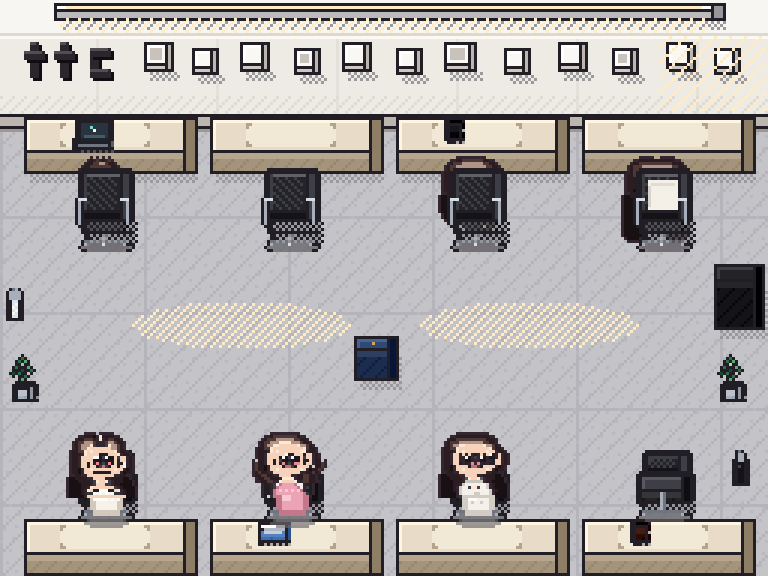
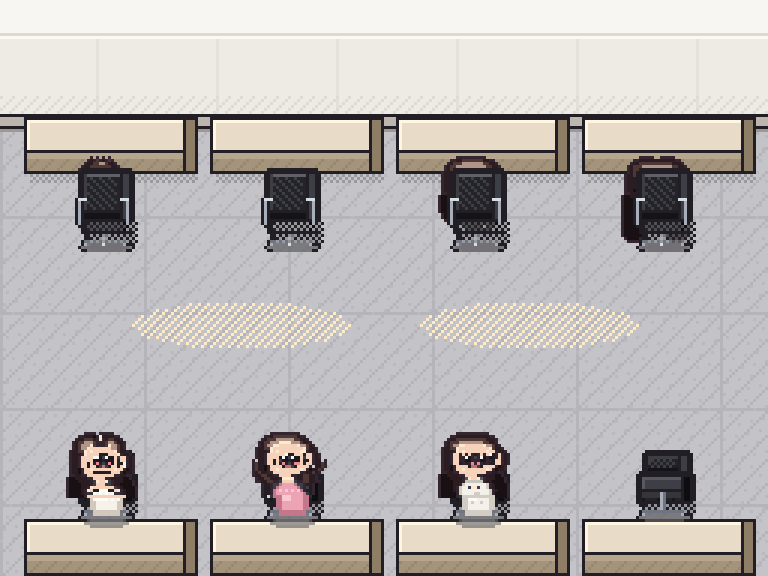
Add a 180-degree hutong camera with swapped faces and backs.
View 1 keeps a plain wall; view 2 has no wall. Both show only floor,
eight empty desks, eight chairs, and the same seated cast. Gallery and
walk expose hutong plus hutong_reverse with matching seat anchors.

diff --git a/public/index.html b/public/index.html
@@ -157,8 +157,8 @@
         <div class="grid" id="cast"></div>
       </section>
       <section>
-        <h2>保留场景 · 11</h2>
-        <p class="note">胡同（上墙 4 桌 · 下墙 4 桌 · 中间 8 椅背靠背）/ 电梯间 / 夏威夷（开窗见蓝天高楼 · 左3椅 · 右3椅 · 约六座）/ 泡泡玛特 / 厕所 / 普通工位 / 会议室 / 演唱会 / 咖啡店 / 健身房 / 米线店。</p>
+        <h2>保留场景 · 11 + 胡同反打</h2>
+        <p class="note">胡同正打 / 胡同反打（同一房间 180°）/ 电梯间 / 夏威夷（开窗见蓝天高楼 · 左3椅 · 右3椅 · 约六座）/ 泡泡玛特 / 厕所 / 普通工位 / 会议室 / 演唱会 / 咖啡店 / 健身房 / 米线店。</p>
         <div class="grid" id="rooms"></div>
       </section>
       <section>
@@ -205,7 +205,10 @@
     const ROOMS = [
       { id:"hutong", title:"胡同工位区", src:"assets/scenes/hutong/scene_hutong.png",
         line:"这边还能放杯子。", y:108, t:"09:20", action:"sit_aisle",
-        why:"上墙 4 桌、下墙 4 桌；8 椅在中间背靠背（上排后脑勺、下排正脸），中间走道。每桌空 pad。" },
+        why:"正打：素墙。上排后脑勺，下排正脸。只要地板、8 桌、8 椅、人。" },
+      { id:"hutong_reverse", title:"胡同 · 反打", src:"assets/scenes/hutong_reverse/scene_hutong_reverse.png",
+        line:"从这边看是正脸。", y:96, t:"09:21", action:"look_back", cameraOnly:true,
+        why:"同一房间转 180°。无墙。原先后脑勺变正脸，正脸变后脑勺，左右对调。" },
       { id:"elevator", title:"电梯间", src:"assets/scenes/elevator/scene_elevator.png",
         line:"先等这梯。", y:140, t:"09:12", action:"wait_lift",
         why:"米黄石材、开门、雕塑台座、屏与按钮。" },
@@ -258,13 +261,14 @@
     });
 
     const beatsEl = document.getElementById("beats");
-    [...ROOMS].sort((a, b) => a.t.localeCompare(b.t)).forEach((b, i) => {
+    const DAY = ROOMS.filter(r => !r.cameraOnly);
+    [...DAY].sort((a, b) => a.t.localeCompare(b.t)).forEach((b, i) => {
       const d = document.createElement("article");
       d.className = "beat";
       d.innerHTML = `
         <img class="pixel" src="${b.src}" alt="${b.title}" />
         <div>
-          <div class="t">${b.t} · ${String(i + 1).padStart(2, "0")} / ${String(ROOMS.length).padStart(2, "0")} · ${b.action}</div>
+          <div class="t">${b.t} · ${String(i + 1).padStart(2, "0")} / ${String(DAY.length).padStart(2, "0")} · ${b.action}</div>
           <h3>${b.title}</h3>
           <p class="note">${b.why}</p>
           <div class="bubble">${b.line}</div>

diff --git a/scripts/generate_rooms.py b/scripts/generate_rooms.py
@@ -1,7 +1,7 @@
 #!/usr/bin/env python3
 """11 Laura-named scenes — 2.5D refined pixel, 256×192, empty desk pads.
 
-v4: hawaii open window + 6 seats; hutong 4 top-wall desks + 4 bottom-wall desks, 8 mid chairs;
+v5: hutong two cameras (front + 180 reverse); desks/chairs/people only;
 concert / cafe / gym / mixian added. Same 1px ink + wall-FACE language.
 """
 from __future__ import annotations
@@ -469,73 +469,101 @@ def office_floor(d, y0, c1, c2, seam):
 
 
 # ===========================================================================
-# 1. 胡同 — 上墙 4 桌 + 下墙 4 桌，8 椅在中间背靠背
+# 1. 胡同 — 两台摄像机：正打（有素墙）/ 反打 180°（无墙）
+#    只要地板 + 8 桌 + 8 椅 + 坐着的人。桌面空着。
 # ===========================================================================
-def scene_hutong() -> Image.Image:
-    room = new(W, H, HT["floor"])
-    d = ImageDraw.Draw(room)
-    office_floor(d, 40, HT["floor"], HT["floor2"], HT["gap"])
+# Physical seats, left→right as seen in view 1.
+# n* face the north (top) wall; s* face the south (bottom) edge.
+HUTONG_NORTH = ("cast_02", None, "cast_05", "cast_08")  # face north
+HUTONG_SOUTH = ("cast_01", "cast_03", "cast_04", None)  # face south
+HUTONG_DESK_XS = (8, 70, 132, 194)
+HUTONG_DESK_W, HUTONG_DESK_H, HUTONG_DESK_Z = 54, 12, 7
+
+
+def _hutong_desk(d, x, y):
+    prism(d, x, y, HUTONG_DESK_W, HUTONG_DESK_H, HUTONG_DESK_Z, HT["desk"], HT["desk_e"])
+
+
+def _hutong_floor(d, y0):
+    office_floor(d, y0, HT["floor"], HT["floor2"], HT["gap"])
     light_pool(d, 80, 108, 36, 8, HT["sun"], 3)
     light_pool(d, 176, 108, 36, 8, HT["sun"], 3)
 
+
+def scene_hutong() -> Image.Image:
+    """View 1 — camera looks north: plain wall, n* show backs, s* show faces."""
+    room = new(W, H, HT["floor"])
+    d = ImageDraw.Draw(room)
+    _hutong_floor(d, 40)
     rect(d, [0, 0, W - 1, 10], HT["ceil"])
-    fluorescent(d, 18, 1, 220, HT["sun"])
     wall_face(d, 0, 11, W - 1, 38, HT["wall"], lip=4, lip_c=HT["lip"])
-    draw_ttc(d, 8, 14)
-    frames = (
-        (48, 14, 8, 8), (64, 16, 7, 7), (80, 14, 8, 8),
-        (98, 16, 7, 7), (114, 14, 8, 8), (132, 16, 7, 7),
-        (148, 14, 9, 8), (168, 16, 7, 7), (186, 14, 8, 8),
-        (204, 16, 7, 7), (222, 14, 8, 8), (238, 16, 7, 7),
-    )
-    for i, (fx, fy, fw, fh) in enumerate(frames):
-        prism(d, fx, fy, fw, fh, 2, HT["frame"], HT["wall_d"], HT["lip"])
-        if i % 3 == 0:
-            rect(d, [fx + 2, fy + 2, fx + fw - 3, fy + fh - 3], shade(HT["wall_d"], -6))
-    dither(d, 220, 12, 254, 36, HT["sun"], 5)
 
-    # four desks flush to the TOP wall, four flush to the BOTTOM edge
-    desk_xs = (8, 70, 132, 194)
-    desk_w, desk_h, desk_z = 54, 12, 7
-    top_items = (prop_laptop(), None, prop_cup((40, 40, 46, 255)), None)
-    bot_items = (None, prop_notebook(), None, prop_cup((80, 48, 40, 255)))
-    # top-row sit_back (face the wall); bottom-row sit_front (face us)
-    top_sit = ("cast_02", None, "cast_05", "cast_08")
-    bot_sit = ("cast_01", "cast_03", "cast_04", None)
-
-    top_desk_y = 39
-    bot_desk_y = 173
-    top_chair_y = 56
-    bot_chair_y = 150
-
-    for i, x in enumerate(desk_xs):
-        prism(d, x, top_desk_y, desk_w, desk_h, desk_z, HT["desk"], HT["desk_e"])
-        empty_pad(d, x + 12, top_desk_y + 2, 30, 8, HT["pad"], shade(HT["desk_e"], 16))
-        if top_items[i]:
-            blit(room, top_items[i], x + 16, top_desk_y)
-        prism(d, x, bot_desk_y, desk_w, desk_h, desk_z, HT["desk"], HT["desk_e"])
-        empty_pad(d, x + 12, bot_desk_y + 2, 30, 8, HT["pad"], shade(HT["desk_e"], 16))
-        if bot_items[i]:
-            blit(room, bot_items[i], x + 16, bot_desk_y)
-
-        # top: person faces the wall (back of head), then chair back toward the aisle
-        if top_sit[i]:
-            blit(room, cast_sprite(top_sit[i], "sit_back"), x + 11, top_chair_y - 12)
-        blit(room, chair_north(jacket=(i == 3)), x + 16, top_chair_y)
-        # bottom: chair behind (toward aisle), person faces the bottom wall
-        blit(room, chair_south(jacket=(i == 1)), x + 16, bot_chair_y)
-        if bot_sit[i]:
-            blit(room, cast_sprite(bot_sit[i], "sit_front"), x + 11, bot_chair_y - 14)
-
-    # leftover floor = small props only, no extra seats
-    blit(room, prop_plant(), 2, 118)
-    blit(room, prop_plant(), 238, 118)
-    blit(room, prop_spray(), 2, 96)
-    blit(room, prop_bottle(), 244, 150)
-    prism(d, 238, 88, 14, 6, 16, HT["chair"], shade(HT["chair"], -16))
-    prism(d, 118, 112, 12, 5, 10, (46, 72, 120, 255), (28, 44, 78, 255))
-    d.point((124, 114), fill=(210, 168, 80, 255))
+    top_desk_y, bot_desk_y = 39, 173
+    top_chair_y, bot_chair_y = 56, 150
+    for i, x in enumerate(HUTONG_DESK_XS):
+        _hutong_desk(d, x, top_desk_y)
+        _hutong_desk(d, x, bot_desk_y)
+        if HUTONG_NORTH[i]:
+            blit(room, cast_sprite(HUTONG_NORTH[i], "sit_back"), x + 11, top_chair_y - 12)
+        blit(room, chair_north(), x + 16, top_chair_y)
+        blit(room, chair_south(), x + 16, bot_chair_y)
+        if HUTONG_SOUTH[i]:
+            blit(room, cast_sprite(HUTONG_SOUTH[i], "sit_front"), x + 11, bot_chair_y - 14)
     return room
+
+
+def scene_hutong_reverse() -> Image.Image:
+    """View 2 — camera rotated 180°: no wall. Rows and X flip; faces/backs swap."""
+    room = new(W, H, HT["floor"])
+    d = ImageDraw.Draw(room)
+    _hutong_floor(d, 0)
+
+    # Physical south row is now at the TOP of the screen (X flipped).
+    # Physical north row is now at the BOTTOM (X flipped).
+    top_desk_y, bot_desk_y = 4, 173
+    top_chair_y, bot_chair_y = 22, 150
+    xs = HUTONG_DESK_XS  # screen left → right
+    south_ltr = tuple(reversed(HUTONG_SOUTH))  # screen-left = physical s3
+    north_ltr = tuple(reversed(HUTONG_NORTH))  # screen-left = physical n3
+    for i, x in enumerate(xs):
+        _hutong_desk(d, x, top_desk_y)
+        _hutong_desk(d, x, bot_desk_y)
+        # top of screen: physical south people, now we see their BACKS
+        if south_ltr[i]:
+            blit(room, cast_sprite(south_ltr[i], "sit_back"), x + 11, top_chair_y - 12)
+        blit(room, chair_north(), x + 16, top_chair_y)
+        # bottom of screen: physical north people, now we see their FACES
+        blit(room, chair_south(), x + 16, bot_chair_y)
+        if north_ltr[i]:
+            blit(room, cast_sprite(north_ltr[i], "sit_front"), x + 11, bot_chair_y - 14)
+    return room
+
+
+def hutong_seats_view1():
+    return [
+        {"id": "n0", "x": 27, "y": 56, "face": "up", "view": "sit_back", "who": "cast_02"},
+        {"id": "n1", "x": 89, "y": 56, "face": "up", "view": "sit_back", "who": None},
+        {"id": "n2", "x": 151, "y": 56, "face": "up", "view": "sit_back", "who": "cast_05"},
+        {"id": "n3", "x": 213, "y": 56, "face": "up", "view": "sit_back", "who": "cast_08"},
+        {"id": "s0", "x": 27, "y": 150, "face": "down", "view": "sit_front", "who": "cast_01"},
+        {"id": "s1", "x": 89, "y": 150, "face": "down", "view": "sit_front", "who": "cast_03"},
+        {"id": "s2", "x": 151, "y": 150, "face": "down", "view": "sit_front", "who": "cast_04"},
+        {"id": "s3", "x": 213, "y": 150, "face": "down", "view": "sit_front", "who": None},
+    ]
+
+
+def hutong_seats_view2():
+    """Same physical seats after a 180° camera rotate (X flip + row swap)."""
+    return [
+        {"id": "s3", "x": 27, "y": 22, "face": "up", "view": "sit_back", "who": None},
+        {"id": "s2", "x": 89, "y": 22, "face": "up", "view": "sit_back", "who": "cast_04"},
+        {"id": "s1", "x": 151, "y": 22, "face": "up", "view": "sit_back", "who": "cast_03"},
+        {"id": "s0", "x": 213, "y": 22, "face": "up", "view": "sit_back", "who": "cast_01"},
+        {"id": "n3", "x": 27, "y": 150, "face": "down", "view": "sit_front", "who": "cast_08"},
+        {"id": "n2", "x": 89, "y": 150, "face": "down", "view": "sit_front", "who": "cast_05"},
+        {"id": "n1", "x": 151, "y": 150, "face": "down", "view": "sit_front", "who": None},
+        {"id": "n0", "x": 213, "y": 150, "face": "down", "view": "sit_front", "who": "cast_02"},
+    ]
 
 
 # ===========================================================================
@@ -1157,20 +1185,18 @@ def scene_mixian() -> Image.Image:
 
 SCENES = [
     dict(id="hutong", title="胡同工位区",
-         blurb="上墙 4 桌 · 下墙 4 桌 · 中间 8 椅背靠背",
+         blurb="正打：素墙 + 上 4 桌下 4 桌 · 中间 8 椅",
          fn=scene_hutong, walk_y=108, line="这边还能放杯子。",
          beat_t="09:20", action="sit_aisle",
-         seats=[
-             {"id": "n0", "x": 27, "y": 56, "face": "up", "view": "sit_back"},
-             {"id": "n1", "x": 89, "y": 56, "face": "up", "view": "sit_back"},
-             {"id": "n2", "x": 151, "y": 56, "face": "up", "view": "sit_back"},
-             {"id": "n3", "x": 213, "y": 56, "face": "up", "view": "sit_back"},
-             {"id": "s0", "x": 27, "y": 150, "face": "down", "view": "sit_front"},
-             {"id": "s1", "x": 89, "y": 150, "face": "down", "view": "sit_front"},
-             {"id": "s2", "x": 151, "y": 150, "face": "down", "view": "sit_front"},
-             {"id": "s3", "x": 213, "y": 150, "face": "down", "view": "sit_front"},
-         ],
-         why="上墙齐排 4 张工位桌，下墙齐排 4 张；8 把椅子全在房间中间：上排椅朝上墙（看见后脑勺），下排椅朝下墙（看见正脸），两排椅背对背，中间留走道。每桌一块空 pad。墙上只留 ttc 和镜框。空地用植物/喷壶/包补密度，不加座位。"),
+         seats=hutong_seats_view1(),
+         why="摄像机朝北墙。素墙一条（无 ttc / 镜框）。上排椅朝北墙看后脑勺，下排椅朝下看正脸。只要地板、8 桌、8 椅、坐着的人；桌面空着。"),
+    dict(id="hutong_reverse", title="胡同 · 反打",
+         blurb="反打 180°：无墙 · 同一 8 座换朝向",
+         fn=scene_hutong_reverse, walk_y=96, line="从这边看是正脸。",
+         beat_t="09:21", action="look_back",
+         camera_only=True,
+         seats=hutong_seats_view2(),
+         why="同一房间摄像机转 180°。无墙、无装饰。原先看后脑勺的一排现在看正脸，原先看正脸的一排现在看后脑勺。左右对调。还是那 8 桌 8 椅同一些人。"),
     dict(id="elevator", title="电梯间",
          blurb="米黄石材 · 开门体积 · 雕塑台座 · 屏与按钮",
          fn=scene_elevator, walk_y=140, line="先等这梯。",
@@ -1238,7 +1264,7 @@ def write_scene_md(spec):
 
 - `public/assets/scenes/{spec['id']}/scene_{spec['id']}.png`
 - `public/preview/zoomed/{spec['id']}.png`
-{("- 8 seat anchors: top n0–n3 face up (`sit_back`); bottom s0–s3 face down (`sit_front`). Walk aisle `walk_y=108`." if spec["id"] == "hutong" else "")}
+{("- View 1 `hutong`：素墙，n* `sit_back`，s* `sit_front`，`walk_y=108`。\n- View 2 `hutong_reverse`：无墙，座位 180° 对调，n* 改 `sit_front`，s* 改 `sit_back`，`walk_y=96`。" if spec["id"] in ("hutong", "hutong_reverse") else "")}
 
 不描摹真人，不提交 refs。
 """,
@@ -1258,10 +1284,11 @@ def write_day_md():
         "",
         "```",
     ]
-    for s in sorted(SCENES, key=lambda x: x["beat_t"]):
+    day_scenes = [s for s in SCENES if not s.get("camera_only")]
+    for s in sorted(day_scenes, key=lambda x: x["beat_t"]):
         lines.append(f"{s['beat_t']}  {s['title']:8}  {s['action']}")
     lines += ["```", "", "## 分镜", ""]
-    for i, s in enumerate(sorted(SCENES, key=lambda x: x["beat_t"]), 1):
+    for i, s in enumerate(sorted(day_scenes, key=lambda x: x["beat_t"]), 1):
         lines += [
             f"### {i} · {s['beat_t']} · {s['title']}",
             f"- `{s['action']}` 「{s['line']}」",
@@ -1287,7 +1314,7 @@ def make_room_sheet(images):
 
 
 def main():
-    print("Generating 11 2.5D scenes…")
+    print("Generating scenes (11 rooms + hutong reverse camera)…")
     manifest = {"canvas": [W, H], "scenes": []}
     painted = []
     for stale in (
@@ -1315,6 +1342,8 @@ def main():
         }
         if spec.get("seats"):
             entry["seats"] = spec["seats"]
+        if spec.get("camera_only"):
+            entry["camera_only"] = True
         manifest["scenes"].append(entry)
     save(make_room_sheet(painted), PREVIEW / "room_sheet.png")
     write_day_md()

diff --git a/design/art-brief.md b/design/art-brief.md
@@ -15,7 +15,7 @@
 |------|------|
 | 相机 | 略俯，能看见桌面顶面和椅背 |
 | 角色 | 大头小身 chibi，不是写实肖像 |
-| 深度 | 阴影、墙厚、遮挡；胡同上墙 4 桌 + 下墙 4 桌，椅在中间背靠背 |
+| 深度 | 阴影、墙厚、遮挡；胡同两台摄像机（正打素墙 / 反打无墙） |
 | 轮廓 | **1px** 深色描边，不要 2px 粗块 |
 | 缩放 | `image-rendering: pixelated`，整数倍 |
 
@@ -23,7 +23,7 @@
 
 | 场景 | 地板 | 光 | 硬规则 |
 |------|------|----|--------|
-| 胡同工位区 | 浅灰地 | 白墙顶灯 | 上墙齐排 4 桌，下墙齐排 4 桌；8 椅在中间（上排朝上墙看后脑勺，下排朝下墙看正脸），中间走道。每桌空 pad。不描合影人物 |
+| 胡同工位区 | 浅灰地 | 素墙 / 反打无墙 | 两台摄像机。正打有素墙（无装饰）；反打 180° 无墙。各 4 桌贴上下边，8 椅在中间。只要地板桌椅人，桌面空着。 |
 | 电梯间 | 白石大理石 | 筒灯暖白 | 米黄石材、开门、雕塑、屏与按钮 |
 | 夏威夷 | 暖木 | 开窗日光 | 开窗可见蓝天高楼（像素天际线）。左竖桌内侧 3 椅，右竖桌旁 3 椅，约六座。窗前不摆椅。奶油墙。 |
 | 泡泡玛特 | 粉×薄荷细格 | 粉/青灯带 | 柜台不要堆死 |

diff --git a/design/scenes/hutong.md b/design/scenes/hutong.md
@@ -2,12 +2,13 @@
 
 > 精致像素 · 256×192 · 2.5D · 桌面留物位
 
-上墙 4 桌 · 下墙 4 桌 · 中间 8 椅背靠背
+正打：素墙 + 上 4 桌下 4 桌 · 中间 8 椅
 
-上墙齐排 4 张工位桌，下墙齐排 4 张；8 把椅子全在房间中间：上排椅朝上墙（看见后脑勺），下排椅朝下墙（看见正脸），两排椅背对背，中间留走道。每桌一块空 pad。墙上只留 ttc 和镜框。空地用植物/喷壶/包补密度，不加座位。
+摄像机朝北墙。素墙一条（无 ttc / 镜框）。上排椅朝北墙看后脑勺，下排椅朝下看正脸。只要地板、8 桌、8 椅、坐着的人；桌面空着。
 
 - `public/assets/scenes/hutong/scene_hutong.png`
 - `public/preview/zoomed/hutong.png`
-- 8 seat anchors: top n0–n3 face up (`sit_back`); bottom s0–s3 face down (`sit_front`). Walk aisle `walk_y=108`.
+- View 1 `hutong`：素墙，n* `sit_back`，s* `sit_front`，`walk_y=108`。
+- View 2 `hutong_reverse`：无墙，座位 180° 对调，n* 改 `sit_front`，s* 改 `sit_back`，`walk_y=96`。
 
 不描摹真人，不提交 refs。

diff --git a/README.md b/README.md
@@ -45,7 +45,8 @@ npx --yes serve public -p 4173
 
 | ID | 中文 | 要点 | 路径 |
 |----|------|------|------|
-| `hutong` | 胡同工位区 | 上墙 4 桌 · 下墙 4 桌 · 中间 8 椅背靠背 | `public/assets/scenes/hutong/` |
+| `hutong` | 胡同工位区 | 正打：素墙 · 上 4 桌下 4 桌 · 中间 8 椅 | `public/assets/scenes/hutong/` |
+| `hutong_reverse` | 胡同 · 反打 | 同一房间 180°，无墙，正脸/后脑勺对调 | `public/assets/scenes/hutong_reverse/` |
 | `elevator` | 电梯间 | 米黄石材、开门、雕塑台座、屏与按钮 | `public/assets/scenes/elevator/` |
 | `hawaii` | 夏威夷 | 开窗见蓝天高楼 · 左竖桌 3 椅 · 右竖桌 3 椅 · 约六座 | `public/assets/scenes/hawaii/` |
 | `popmart` | 泡泡玛特店 | 细格盲盒墙，柜台留空 | `public/assets/scenes/popmart/` |

diff --git a/design/scenes/hutong_reverse.md b/design/scenes/hutong_reverse.md
@@ -1,0 +1,14 @@
+# 场景：胡同 · 反打（`hutong_reverse`）
+
+> 精致像素 · 256×192 · 2.5D · 桌面留物位
+
+反打 180°：无墙 · 同一 8 座换朝向
+
+同一房间摄像机转 180°。无墙、无装饰。原先看后脑勺的一排现在看正脸，原先看正脸的一排现在看后脑勺。左右对调。还是那 8 桌 8 椅同一些人。
+
+- `public/assets/scenes/hutong_reverse/scene_hutong_reverse.png`
+- `public/preview/zoomed/hutong_reverse.png`
+- View 1 `hutong`：素墙，n* `sit_back`，s* `sit_front`，`walk_y=108`。
+- View 2 `hutong_reverse`：无墙，座位 180° 对调，n* 改 `sit_front`，s* 改 `sit_back`，`walk_y=96`。
+
+不描摹真人，不提交 refs。

diff --git a/design/day-in-life.md b/design/day-in-life.md
@@ -28,7 +28,7 @@
 
 ### 2 · 09:20 · 胡同工位区
 - `sit_aisle` 「这边还能放杯子。」
-- 上墙齐排 4 张工位桌，下墙齐排 4 张；8 把椅子全在房间中间：上排椅朝上墙（看见后脑勺），下排椅朝下墙（看见正脸），两排椅背对背，中间留走道。每桌一块空 pad。墙上只留 ttc 和镜框。空地用植物/喷壶/包补密度，不加座位。
+- 摄像机朝北墙。素墙一条（无 ttc / 镜框）。上排椅朝北墙看后脑勺，下排椅朝下看正脸。只要地板、8 桌、8 椅、坐着的人；桌面空着。
 
 ### 3 · 09:40 · 夏威夷
 - `open_laptop` 「窗边这档先开。」
